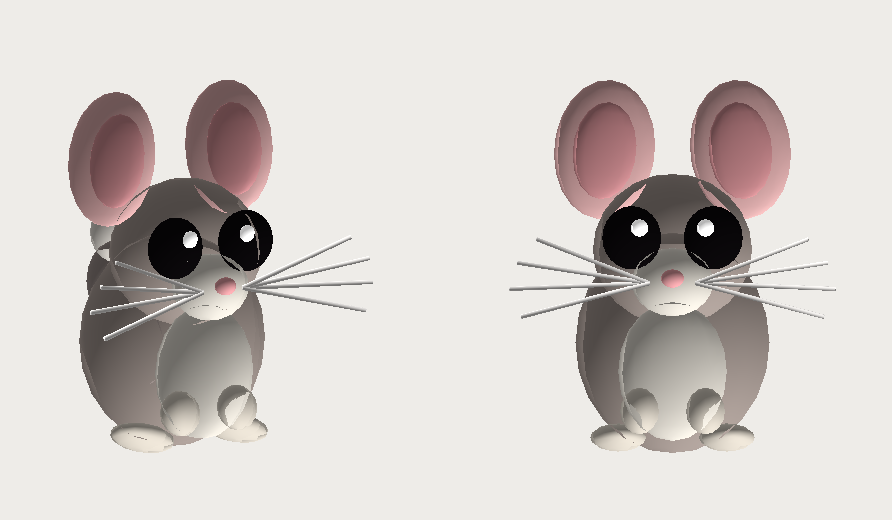
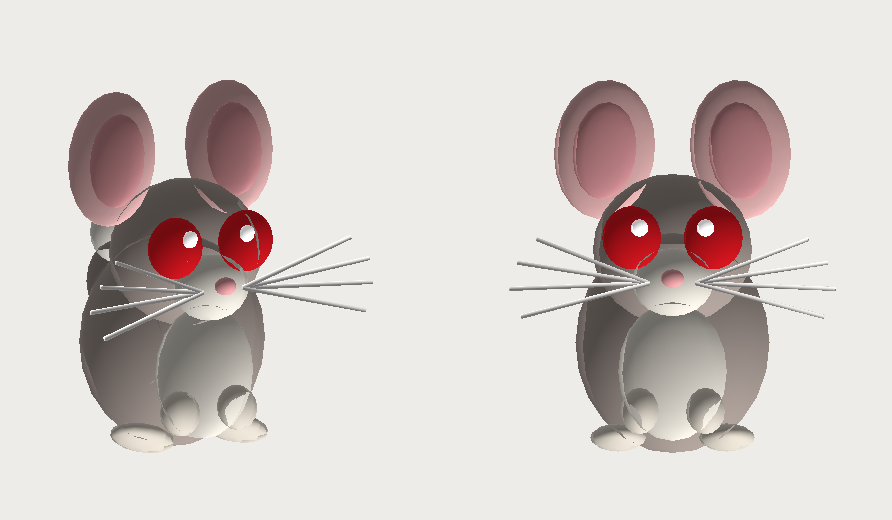
fix(pet): チンチラ「もふ」の目をルビーレッドに（ベージュ個体準拠・ほんのり赤発光）

Changed region(s): [[0.6659, 0.4, 0.8475, 0.5231], [0.1513, 0.4, 0.3027, 0.5538]]

diff --git a/tools/build_pet_chinchilla.py b/tools/build_pet_chinchilla.py
@@ -113,7 +113,7 @@ BELLY  = (0.93, 0.91, 0.87)   # 腹・口元のクリーム白
 EAR_OUT= (0.92, 0.72, 0.72)   # 大きな耳：地肌のピンク（外）
 EAR_IN = (0.85, 0.58, 0.60)   # 内耳の陰ピンク
 NOSE   = (0.95, 0.66, 0.68)   # 鼻ピンク
-EYE    = (0.045, 0.035, 0.045)# 大きな真っ黒の目
+EYE    = (0.66, 0.07, 0.10)   # 大きなルビーレッドの目（ベージュ・チンチラ）
 EYEHI  = (1.0, 1.0, 1.0)      # 目のハイライト
 PAW    = (0.88, 0.85, 0.80)   # 前足・後足（白っぽい）
 WHISK  = (0.97, 0.96, 0.95)   # 長い白ひげ
@@ -136,7 +136,8 @@ ellipsoid(0.0, 0.450, 0.215, 0.105, 0.088, 0.090, BELLY, ring=10)
 ellipsoid(0.0, 0.468, 0.300, 0.030, 0.024, 0.024, NOSE, ring=8)
 # 目（左右・大きく真っ黒・顔の表面に出す）＋ハイライト
 for sx in (-1, 1):
-    ellipsoid(sx*0.105, 0.565, 0.215, 0.076, 0.082, 0.060, EYE, seg=18, ring=12, rough=0.16)
+    ellipsoid(sx*0.105, 0.565, 0.215, 0.076, 0.082, 0.060, EYE, seg=18, ring=12, rough=0.14,
+              emis=(0.50, 0.04, 0.06))  # ほんのり赤く光らせて「ルビー目」に
     ellipsoid(sx*0.085, 0.595, 0.262, 0.023, 0.023, 0.016, EYEHI, seg=8, ring=6,
               rough=0.06, emis=(0.9, 0.9, 0.9))
 # 耳（特大の丸耳：地肌のピンク。立ち気味＝写真2準拠）＋内耳の陰

diff --git a/models/ASSETS.md b/models/ASSETS.md
@@ -156,7 +156,7 @@
 
 | ファイル | 容量(MB) | クリップ | mesh/node |
 |---|---|---|---|
-| `pet_chinchilla.glb` | 0.1296 | —（静物） | 1/1 |
+| `pet_chinchilla.glb` | 0.1297 | —（静物） | 1/1 |
 
 ## 演出（ボス出現FX）
 
